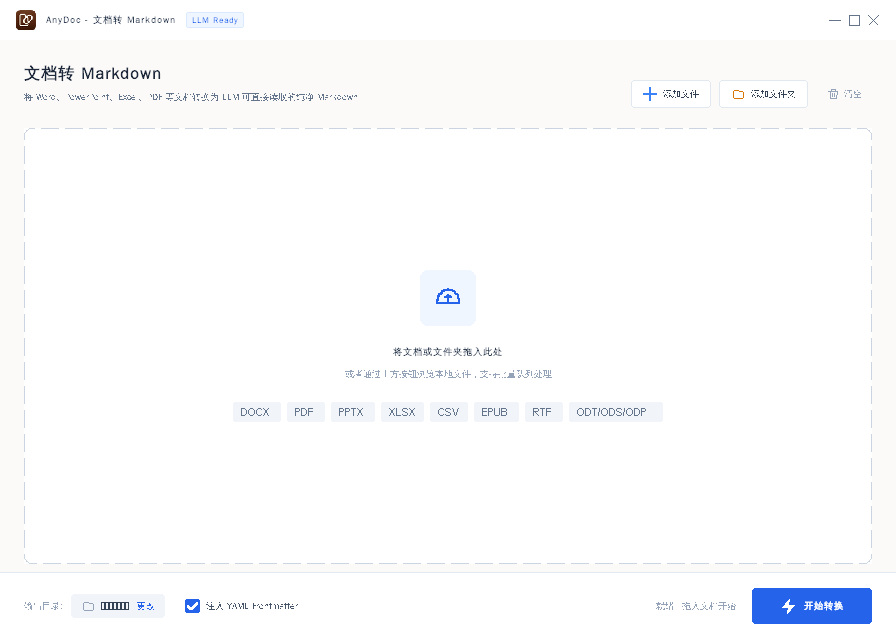
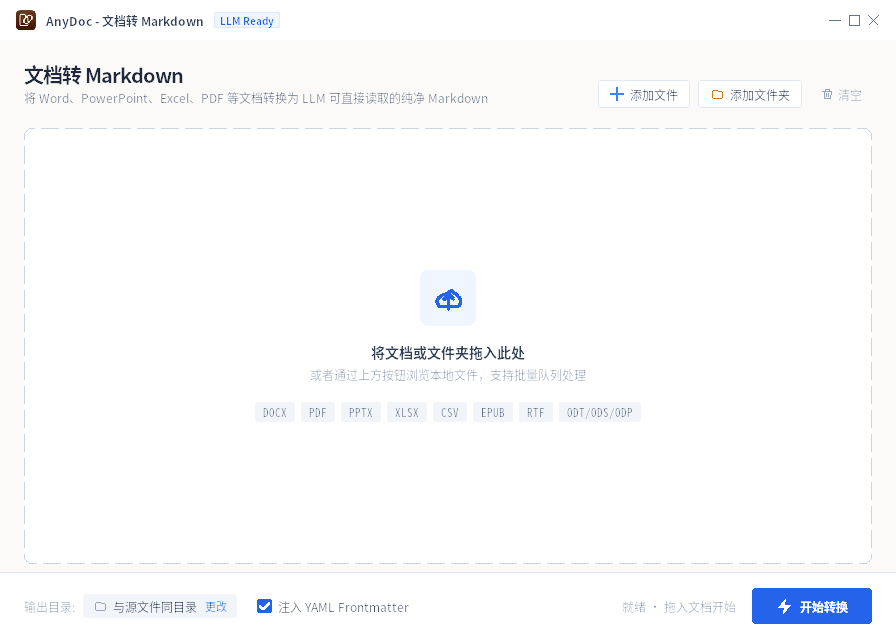
v0.5.2: 修最大化按钮被切 + 重画云图标/还原图标 + 修正字体字号

diff --git a/native/src/ui.rs b/native/src/ui.rs
@@ -187,7 +187,22 @@ pub unsafe extern "system" fn wnd_proc(
         WM_NCCALCSIZE => {
             if wp.0 != 0 {
                 let pnc = &mut *(lp.0 as *mut NCCALCSIZE_PARAMS);
-                pnc.rgrc[0] = pnc.rgrc[1];
+                if is_maximized(hwnd) {
+                    // 最大化时窗口会比工作区多出隐形的缩放边框（Win10/11 每边约 8px），
+                    // 客户区若铺满整个窗口，右侧的窗口按钮会被挤出屏幕看不见。
+                    // 这里把客户区收回到「工作区 ∩ 窗口矩形」：
+                    // 真实 Windows 上等于工作区（按钮不被切），
+                    // 窗口没被真正拉大的环境下退化成窗口矩形（不画歪）。
+                    let mut r = work_area(hwnd);
+                    let win = pnc.rgrc[1];
+                    r.left = r.left.max(win.left);
+                    r.top = r.top.max(win.top);
+                    r.right = r.right.min(win.right);
+                    r.bottom = r.bottom.min(win.bottom);
+                    pnc.rgrc[0] = r;
+                } else {
+                    pnc.rgrc[0] = pnc.rgrc[1];
+                }
             }
             LRESULT(0)
         }
@@ -295,15 +310,9 @@ pub unsafe extern "system" fn wnd_proc(
             // WS_POPUP 最大化会铺满整个屏幕（含任务栏），
             // 这里把最大尺寸限制在「工作区」范围内。
             let mmi = &mut *(lp.0 as *mut MINMAXINFO);
-            let mut work = RECT::default();
-            let _ = SystemParametersInfoW(
-                SPI_GETWORKAREA,
-                0,
-                Some(&mut work as *mut RECT as *mut std::ffi::c_void),
-                SYSTEM_PARAMETERS_INFO_UPDATE_FLAGS(0),
-            );
-            mmi.ptMaxPosition.x = 0;
-            mmi.ptMaxPosition.y = 0;
+            let work = work_area(hwnd);
+            mmi.ptMaxPosition.x = work.left;
+            mmi.ptMaxPosition.y = work.top;
             mmi.ptMaxSize.x = work.right - work.left;
             mmi.ptMaxSize.y = work.bottom - work.top;
             mmi.ptMaxTrackSize.x = work.right - work.left;
@@ -396,6 +405,9 @@ fn make_fonts() -> Fonts {
         name: make_font(12, 600),
         meta: make_font(12, 500),
         tag: make_font(10, 600),
+        mono_tag: make_mono(10, 600),
+        mono_small: make_mono(11, 500),
+        empty_title: make_font(14, 600),
         foot: make_font(12, 500),
         big: make_font(14, 700),
     }
@@ -961,7 +973,7 @@ unsafe fn draw_brand(hdc: HDC, ui: &Ui, hwnd: HWND, l: &Layout) {
             HIT_MIN => draw_min_icon(hdc, cx, cy, dpi::px(12), color),
             HIT_MAX => {
                 if maximized {
-                    draw_restore_icon(hdc, cx, cy, dpi::px(11), color);
+                    draw_restore_icon(hdc, cx, cy, dpi::px(13), color);
                 } else {
                     draw_max_icon(hdc, cx, cy, dpi::px(10), color);
                 }
@@ -974,22 +986,26 @@ unsafe fn draw_brand(hdc: HDC, ui: &Ui, hwnd: HWND, l: &Layout) {
 /// ② 头部（大标题 + 副标题 + 操作按钮）
 unsafe fn draw_head(hdc: HDC, ui: &Ui, hwnd: HWND, l: &Layout) {
     let th = &ui.theme;
+    let btns = compute_head_buttons(hwnd, l);
 
     let old: HGDIOBJ = SelectObject(hdc, HGDIOBJ(ui.fonts.h1.0));
+    // 设计稿大标题是 tracking-tight（-0.025em），字距收紧一点更接近
+    SetTextCharacterExtra(hdc, -dpi::px(1));
     draw_text(hdc, "文档转 Markdown", l.head.left, l.head.top, dpi::px(400), dpi::px(28),
         th.slate_800, DRAW_TEXT_FORMAT(DT_LEFT.0), false);
+    SetTextCharacterExtra(hdc, 0);
     let _ = SelectObject(hdc, old);
 
     let old: HGDIOBJ = SelectObject(hdc, HGDIOBJ(ui.fonts.sub.0));
-    // 副标题宽度不能侵占右侧按钮区
-    let sub_w = (l.head.right - l.head.left - dpi::px(460)).max(dpi::px(200));
+    // 副标题不能压到右侧按钮组：可用宽度 = 按钮组左边缘 - 标题左边距
+    let btn_left = btns.first().map(|b| b.rect.left).unwrap_or(l.head.right);
+    let sub_w = (btn_left - l.head.left - dpi::px(12)).max(dpi::px(200));
     draw_text(hdc, "将 Word、PowerPoint、Excel、PDF 等文档转换为 LLM 可直接读取的纯净 Markdown",
         l.head.left, l.head.top + dpi::px(28), sub_w, dpi::px(18),
         th.slate_500, DRAW_TEXT_FORMAT(DT_LEFT.0), true);
     let _ = SelectObject(hdc, old);
 
     // 三个按钮
-    let btns = compute_head_buttons(hwnd, l);
     for b in &btns {
         let is_hot = ui.hot.get() == Some(b.id);
         let is_clear = b.icon == 2;
@@ -1062,7 +1078,7 @@ unsafe fn draw_empty(hdc: HDC, ui: &Ui, l: &Layout) {
     y += box_sz + dpi::px(16);
 
     // 主文案 text-sm(14) font-semibold slate-700
-    let old: HGDIOBJ = SelectObject(hdc, HGDIOBJ(ui.fonts.name.0));
+    let old: HGDIOBJ = SelectObject(hdc, HGDIOBJ(ui.fonts.empty_title.0));
     let t1 = "将文档或文件夹拖入此处";
     let sz1 = measure_text(hdc, t1);
     draw_text(hdc, t1, cx - sz1.cx / 2, y, sz1.cx + 4, h_main,
@@ -1071,7 +1087,7 @@ unsafe fn draw_empty(hdc: HDC, ui: &Ui, l: &Layout) {
     y += h_main + dpi::px(4);
 
     // 副文案 text-xs(12) slate-400
-    let old: HGDIOBJ = SelectObject(hdc, HGDIOBJ(ui.fonts.meta.0));
+    let old: HGDIOBJ = SelectObject(hdc, HGDIOBJ(ui.fonts.sub.0));
     let t2 = "或者通过上方按钮浏览本地文件，支持批量队列处理";
     let sz2 = measure_text(hdc, t2);
     draw_text(hdc, t2, cx - sz2.cx / 2, y, sz2.cx + 4, h_sub,
@@ -1079,9 +1095,9 @@ unsafe fn draw_empty(hdc: HDC, ui: &Ui, l: &Layout) {
     let _ = SelectObject(hdc, old);
     y += h_sub + dpi::px(20);
 
-    // 格式胶囊标签
+    // 格式胶囊标签（text-[11px] font-mono）
     let tags = ["DOCX", "PDF", "PPTX", "XLSX", "CSV", "EPUB", "RTF", "ODT/ODS/ODP"];
-    let old: HGDIOBJ = SelectObject(hdc, HGDIOBJ(ui.fonts.mono.0));
+    let old: HGDIOBJ = SelectObject(hdc, HGDIOBJ(ui.fonts.mono_small.0));
     let mut widths = Vec::new();
     for t in tags {
         let sz = measure_text(hdc, t);
@@ -1168,11 +1184,11 @@ unsafe fn draw_table(hdc: HDC, ui: &Ui, hwnd: HWND, l: &Layout) {
 
         let cy = top + row_h / 2;
 
-        // 扩展名徽章
+        // 扩展名徽章（text-[10px] font-mono font-semibold）
         let (fg, bgc, bd) = ext_style(th, &task.ext);
-        let old: HGDIOBJ = SelectObject(hdc, HGDIOBJ(ui.fonts.mono.0));
+        let old: HGDIOBJ = SelectObject(hdc, HGDIOBJ(ui.fonts.mono_tag.0));
         let tag = task.ext.to_uppercase();
-        let tw = draw_pill(hdc, &tag, cols.name_x, cy, fg, bgc, ui.fonts.mono, bd);
+        let tw = draw_pill(hdc, &tag, cols.name_x, cy, fg, bgc, ui.fonts.mono_tag, bd);
         let _ = SelectObject(hdc, old);
 
         // 文件名
@@ -1201,7 +1217,7 @@ unsafe fn draw_table(hdc: HDC, ui: &Ui, hwnd: HWND, l: &Layout) {
                 // 用不确定态动画表示「正在进行」，而不是卡在一个数字上。
                 let indeterminate = task.phase == "解析转换";
 
-                let old: HGDIOBJ = SelectObject(hdc, HGDIOBJ(ui.fonts.meta.0));
+                let old: HGDIOBJ = SelectObject(hdc, HGDIOBJ(ui.fonts.small.0));
                 let phase_w = if indeterminate { inner_w } else { inner_w - dpi::px(44) };
                 draw_text(hdc, &phase, inner_x, cy - dpi::px(15),
                     phase_w, dpi::px(16), th.blue,
@@ -2136,11 +2152,16 @@ pub unsafe fn preload_folder(hwnd: HWND, dir: &PathBuf) {
 
 
 
-/// 窗口是否最大化
-unsafe fn is_maximized(hwnd: HWND) -> bool {
-    let mut rc = RECT::default();
-    let _ = GetWindowRect(hwnd, &mut rc);
-    // 最大化时窗口 rect 等于工作区
+/// 窗口所在显示器的工作区（屏幕坐标）
+unsafe fn work_area(hwnd: HWND) -> RECT {
+    let mon = MonitorFromWindow(hwnd, MONITOR_DEFAULTTONEAREST);
+    let mut mi = MONITORINFO {
+        cbSize: std::mem::size_of::<MONITORINFO>() as u32,
+        ..Default::default()
+    };
+    if GetMonitorInfoW(mon, &mut mi).as_bool() && mi.rcWork.right > mi.rcWork.left {
+        return mi.rcWork;
+    }
     let mut work = RECT::default();
     let _ = SystemParametersInfoW(
         SPI_GETWORKAREA,
@@ -2148,8 +2169,21 @@ unsafe fn is_maximized(hwnd: HWND) -> bool {
         Some(&mut work as *mut RECT as *mut std::ffi::c_void),
         SYSTEM_PARAMETERS_INFO_UPDATE_FLAGS(0),
     );
-    (rc.right - rc.left) >= (work.right - work.left)
-        && (rc.bottom - rc.top) >= (work.bottom - work.top)
+    if work.right > work.left {
+        return work;
+    }
+    // 兜底：整块屏幕
+    RECT {
+        left: 0,
+        top: 0,
+        right: GetSystemMetrics(SM_CXSCREEN),
+        bottom: GetSystemMetrics(SM_CYSCREEN),
+    }
+}
+
+/// 窗口是否最大化
+unsafe fn is_maximized(hwnd: HWND) -> bool {
+    IsZoomed(hwnd).as_bool()
 }
 
 

diff --git a/native/src/draw.rs b/native/src/draw.rs
@@ -137,6 +137,9 @@ pub struct Fonts {
     pub name: HFONT,      // 12 文件名 (text-xs)
     pub meta: HFONT,      // 12 次要信息 (text-xs)
     pub tag: HFONT,       // 10 徽章 (text-[10px])
+    pub mono_tag: HFONT,  // 10 扩展名徽章 (mono text-[10px])
+    pub mono_small: HFONT,// 11 空态格式标签 (mono text-[11px])
+    pub empty_title: HFONT, // 14 空态主文案 (text-sm font-semibold)
     pub foot: HFONT,      // 12 底栏 (text-xs)
     pub big: HFONT,       // 14 大按钮
 }
@@ -146,8 +149,10 @@ pub fn make_mono(px: i32, weight: i32) -> HFONT {
     unsafe {
         let face = mono_family().to_string();
         let face: Vec<u16> = face.encode_utf16().chain(std::iter::once(0)).collect();
+        // 高度必须是负数：负数 = 字面高度（em），正数 = 行高（会按行高反推字号，
+        // 中文雅黑的行高比字面高 1.3 倍左右，传正数会让字比设计稿小一圈）
         CreateFontW(
-            dpi::font_px(px), 0, 0, 0, weight, 0, 0, 0,
+            -dpi::font_px(px), 0, 0, 0, weight, 0, 0, 0,
             DEFAULT_CHARSET.0 as u32,
             OUT_DEFAULT_PRECIS.0 as u32,
             CLIP_DEFAULT_PRECIS.0 as u32,
@@ -163,8 +168,9 @@ pub fn make_font(px: i32, weight: i32) -> HFONT {
     unsafe {
         let face = ui_family().to_string();
         let face: Vec<u16> = face.encode_utf16().chain(std::iter::once(0)).collect();
+        // 负高度 = 字面高度，这样 12px 就是真的 12px
         CreateFontW(
-            dpi::font_px(px),
+            -dpi::font_px(px),
             0, 0, 0, weight, 0, 0, 0,
             DEFAULT_CHARSET.0 as u32,
             OUT_DEFAULT_PRECIS.0 as u32,
@@ -364,11 +370,27 @@ pub fn draw_text(
     unsafe {
         SetTextColor(hdc, color);
         SetBkMode(hdc, TRANSPARENT);
-        let mut rc = RECT { left: x, top: y, right: x + w, bottom: y + h };
+        let mut buf: Vec<u16> = text.encode_utf16().collect();
+        // 字体行高可能超过给定的高度（微软雅黑的行高本来就比字号大），
+        // 直接画会被裁掉上下缘。这里按需把矩形上下撑开，保证字形完整。
+        let mut need = RECT::default();
+        let _ = DrawTextW(
+            hdc,
+            &mut buf,
+            &mut need,
+            DT_CALCRECT | DT_SINGLELINE | DT_NOPREFIX,
+        );
+        let need_h = need.bottom - need.top;
+        let (mut ry, mut rh) = (y, h);
+        if need_h > h {
+            let extra = (need_h - h) / 2;
+            ry -= extra;
+            rh += extra * 2;
+        }
+        let mut rc = RECT { left: x, top: ry, right: x + w, bottom: ry + rh };
         let flags = DT_SINGLELINE | DT_VCENTER | align
             | if clip { DT_END_ELLIPSIS } else { DRAW_TEXT_FORMAT(0) };
-        let mut buf: Vec<u16> = text.encode_utf16().collect();
-        DrawTextW(hdc, &mut buf, &mut rc, flags);
+        let _ = DrawTextW(hdc, &mut buf, &mut rc, flags);
         // 宽度单独测量：DrawTextW 对不同对齐方式修改 rc 的行为不一致，
         // 直接用返回值会导致后续元素位置算错。
         measure_text(hdc, text).cx
@@ -726,15 +748,17 @@ pub fn draw_restore_icon(hdc: HDC, cx: i32, cy: i32, size: i32, color: COLORREF)
         let pen = CreatePen(PS_SOLID, dpi::px(1), color);
         let old: HGDIOBJ = SelectObject(hdc, HGDIOBJ(pen.0));
         let h = size / 2;
-        let o = dpi::px(3);
-        // 后层
-        MoveToEx(hdc, cx - h + o, cy - h + o, None);
-        LineTo(hdc, cx + h + o, cy - h + o);
-        LineTo(hdc, cx + h + o, cy + h);
-        // 前层
+        let o = (size / 3).max(2);
+        // 后层方框（左上）：上边 + 左边 + 右边（到前层为止）
         MoveToEx(hdc, cx - h, cy - h + o, None);
-        LineTo(hdc, cx - h, cy + h + o);
-        LineTo(hdc, cx + h - o, cy + h + o);
+        LineTo(hdc, cx - h, cy - h);
+        LineTo(hdc, cx + h - o, cy - h);
+        LineTo(hdc, cx + h - o, cy + h - o);
+        // 前层方框（右下）：左边 + 下边 + 右边
+        MoveToEx(hdc, cx - h + o, cy - h + o, None);
+        LineTo(hdc, cx - h + o, cy + h);
+        LineTo(hdc, cx + h, cy + h);
+        LineTo(hdc, cx + h, cy - h + o);
         let _ = SelectObject(hdc, old);
         let _ = DeleteObject(HGDIOBJ(pen.0));
     }
@@ -758,47 +782,57 @@ pub fn draw_close_icon(hdc: HDC, cx: i32, cy: i32, size: i32, color: COLORREF) {
 
 /// 云朵上传图标（对齐 lucide cloud-upload）
 ///
-/// 单峰云 = 一个半圆 + 平底；内部叠一个向上箭头。
-/// 箭头完全落在云轮廓内，缩到 24px 也能辨认。
+/// 24×24 网格：云轮廓 + 向上的箭头（箭杆穿过云底，和 lucide 一致）。
+/// 之前那版是「半圆 + 平底」，缩到 24px 就糊成一坨，这里改成完整云形。
 pub fn draw_cloud_upload_icon(hdc: HDC, cx: i32, cy: i32, size: i32, color: COLORREF) {
     unsafe {
-        let pen = CreatePen(PS_SOLID, dpi::px(2), color);
+        let f = size as f64 / 24.0;
+        let pen = CreatePen(PS_SOLID, ((size as f64 * 2.0 / 24.0).round() as i32).max(1), color);
         let old: HGDIOBJ = SelectObject(hdc, HGDIOBJ(pen.0));
+        let p = |x: f64, y: f64| -> POINT {
+            POINT {
+                x: cx + ((x - 12.0) * f).round() as i32,
+                y: cy + ((y - 12.0) * f).round() as i32,
+            }
+        };
 
-        let r = (size as f64 * 0.34).round() as i32;   // 云的半径
-        let base_y = cy + r / 2;                       // 云底
-        let ccy = base_y - r / 3;                      // 圆心略高于底
+        // 云轮廓（底部平线，右侧回到起点）
+        let cloud: [(f64, f64); 10] = [
+            (4.6, 18.0),  // 左下
+            (3.2, 14.6),
+            (4.6, 11.2),
+            (7.6, 8.9),
+            (10.6, 8.0),
+            (13.4, 6.1),  // 顶部
+            (16.4, 8.0),
+            (19.4, 10.6),
+            (20.8, 14.0),
+            (19.6, 18.0), // 右下
+        ];
+        for (i, q) in cloud.iter().enumerate() {
+            let pt = p(q.0, q.1);
+            if i == 0 {
+                MoveToEx(hdc, pt.x, pt.y, None);
+            } else {
+                LineTo(hdc, pt.x, pt.y);
+            }
+        }
+        // 底边
+        let last = p(cloud[cloud.len() - 1].0, cloud[cloud.len() - 1].1);
+        let first = p(cloud[0].0, cloud[0].1);
+        LineTo(hdc, first.x, first.y);
 
-        // 半圆 + 平底
-        let mut pts: Vec<POINT> = Vec::new();
-        let steps = 16;
-        for k in 0..=steps {
-            let t = 180.0 + 180.0 * (k as f64 / steps as f64);
-            let rad = t * std::f64::consts::PI / 180.0;
-            pts.push(POINT {
-                x: cx + (r as f64 * rad.cos()) as i32,
-                y: ccy + (r as f64 * rad.sin()) as i32,
-            });
-        }
-        // 底边两端封口
-        if let (Some(first), Some(last)) = (pts.first().copied(), pts.last().copied()) {
-            pts.push(POINT { x: last.x, y: base_y });
-            pts.push(POINT { x: first.x, y: base_y });
-            pts.push(first);
-        }
-        if pts.len() > 1 {
-            Polyline(hdc, &pts);
-        }
-
-        // 向上箭头（完全在云内）
-        let ax = cx;
-        let ay_top = ccy - r / 2;
-        let ay_bot = base_y - r / 4;
-        MoveToEx(hdc, ax, ay_top, None);
-        LineTo(hdc, ax, ay_bot);
-        MoveToEx(hdc, ax - r / 3, ay_top + r / 4, None);
-        LineTo(hdc, ax, ay_top);
-        LineTo(hdc, ax + r / 3, ay_top + r / 4);
+        // 箭头：头部 V 形 + 竖杆（竖杆穿过云底）
+        let a1 = p(8.6, 12.4);
+        let a2 = p(12.0, 9.0);
+        let a3 = p(15.4, 12.4);
+        MoveToEx(hdc, a1.x, a1.y, None);
+        LineTo(hdc, a2.x, a2.y);
+        LineTo(hdc, a3.x, a3.y);
+        let s1 = p(12.0, 10.4);
+        let s2 = p(12.0, 20.6);
+        MoveToEx(hdc, s1.x, s1.y, None);
+        LineTo(hdc, s2.x, s2.y);
 
         let _ = SelectObject(hdc, old);
         let _ = DeleteObject(HGDIOBJ(pen.0));

diff --git a/README.md b/README.md
@@ -31,7 +31,7 @@ Releases 页只有一个包：
 
 | 文件 | 大小 | 说明 |
 |------|------|------|
-| [`AnyDoc-v0.5.1-win-x64-portable.zip`](https://github.com/Kelisiqiang/anydoc-gui/releases/download/v0.5.1/AnyDoc-v0.5.1-win-x64-portable.zip) | 3.7MB | **免安装版**：解压即用，不需要装任何运行时 |
+| [`AnyDoc-v0.5.2-win-x64-portable.zip`](https://github.com/Kelisiqiang/anydoc-gui/releases/download/v0.5.2/AnyDoc-v0.5.2-win-x64-portable.zip) | 3.7MB | **免安装版**：解压即用，不需要装任何运行时 |
 
 > 解压后目录结构要保留（`resources/` 里是图标资源）。
 > 已用 SHA256 自签名 + DigiCert 时间戳签名。
@@ -106,6 +106,7 @@ anydoc 读取文件签名（PDF header、RTF open group、OLE stream name、ZIP 
 
 | 版本 | 改动 |
 |------|------|
+| **v0.5.2** | 修复最大化后右侧窗口按钮被切掉；重画云上传图标；**修正字体字号**（实际渲染比设计稿小一圈）；还原图标重画 |
 | **v0.5.1** | 修复点行尾 📂 被误判成删除（行会被删掉而不是打开文件夹）；打开失败自动兜底打开父目录 |
 | **v0.5.0** | 界面按设计稿精确还原：无边框窗口（消掉顶部空白带）、表格改 `grid-cols-12 gap-4` 栅格、行内进度条与阶段文字连成一体、删掉底部多余的总进度条、头部按钮按内容排版并补上垃圾桶图标、输出目录框重排 |
 | v0.4.4 | 解决 Windows SmartScreen 弹窗（包内附 `首次运行.bat`） |
